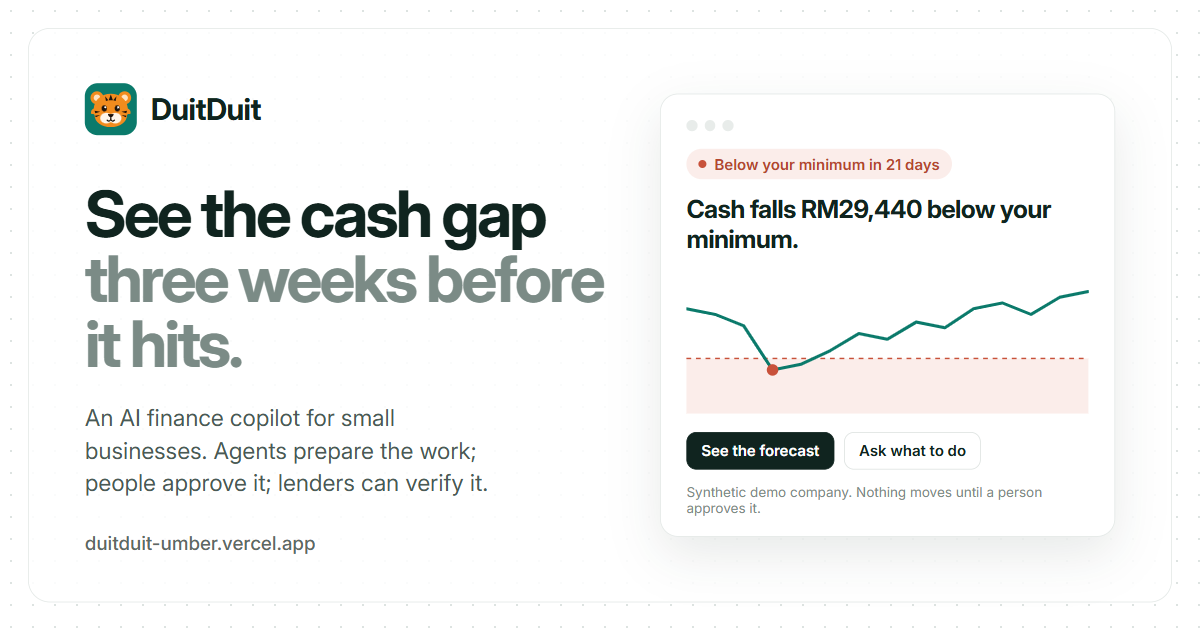
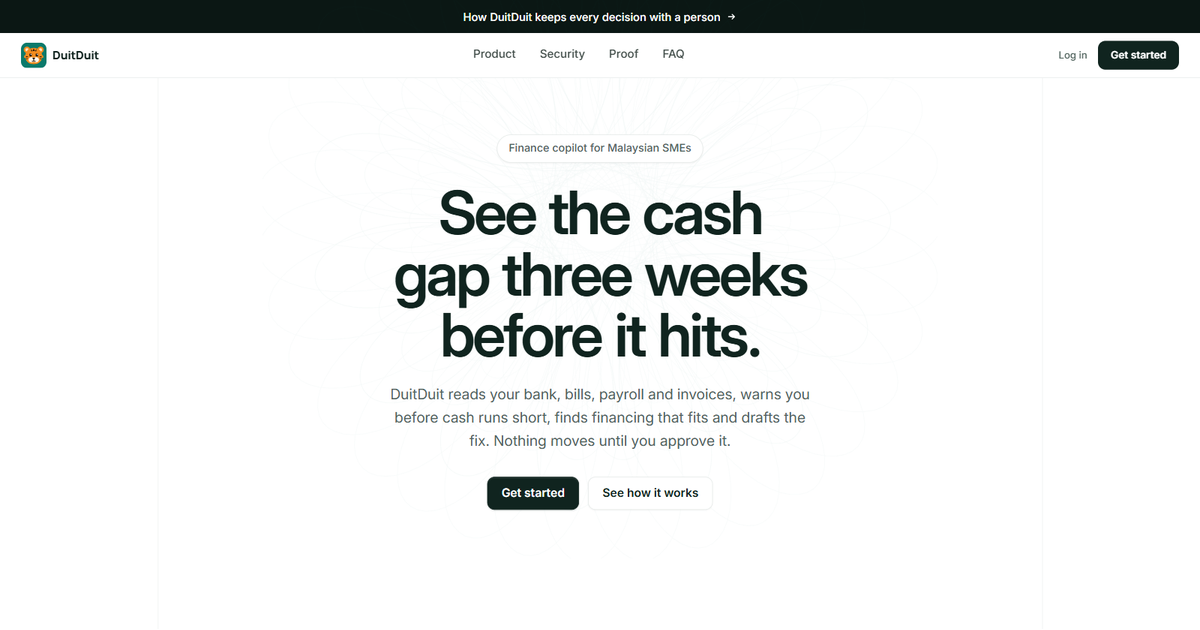
feat(web): the link preview is the landing page itself

diff --git a/frontend/index.html b/frontend/index.html
@@ -3,7 +3,7 @@
   <head>
     <meta charset="UTF-8" />
     <meta name="viewport" content="width=device-width, initial-scale=1.0" />
-    <meta name="description" content="An AI finance copilot for small businesses: a 90-day cash forecast that warns before cash runs short, financing that fits, and agents that prepare the work for people to approve. Lenders can verify the result." />
+    <meta name="description" content="DuitDuit reads your bank, bills, payroll and invoices, warns you before cash runs short, finds financing that fits and drafts the fix. Nothing moves until you approve it." />
     <link rel="icon" type="image/svg+xml" href="/favicon.svg" />
     <title>DuitDuit</title>
 
@@ -11,14 +11,14 @@
     <meta property="og:site_name" content="DuitDuit" />
     <meta property="og:url" content="https://duitduit-umber.vercel.app/" />
     <meta property="og:title" content="DuitDuit — See the cash gap three weeks before it hits." />
-    <meta property="og:description" content="An AI finance copilot for small businesses: a 90-day cash forecast that warns before cash runs short, financing that fits, and agents that prepare the work for people to approve. Lenders can verify the result." />
-    <meta property="og:image" content="https://duitduit-umber.vercel.app/og-image.png" />
+    <meta property="og:description" content="DuitDuit reads your bank, bills, payroll and invoices, warns you before cash runs short, finds financing that fits and drafts the fix. Nothing moves until you approve it." />
+    <meta property="og:image" content="https://duitduit-umber.vercel.app/og-image.png?v=2" />
     <meta property="og:image:width" content="1200" />
     <meta property="og:image:height" content="630" />
     <meta name="twitter:card" content="summary_large_image" />
     <meta name="twitter:title" content="DuitDuit — See the cash gap three weeks before it hits." />
-    <meta name="twitter:description" content="An AI finance copilot for small businesses: a 90-day cash forecast that warns before cash runs short, financing that fits, and agents that prepare the work for people to approve. Lenders can verify the result." />
-    <meta name="twitter:image" content="https://duitduit-umber.vercel.app/og-image.png" />
+    <meta name="twitter:description" content="DuitDuit reads your bank, bills, payroll and invoices, warns you before cash runs short, finds financing that fits and drafts the fix. Nothing moves until you approve it." />
+    <meta name="twitter:image" content="https://duitduit-umber.vercel.app/og-image.png?v=2" />
   </head>
   <body>
     <div id="root"></div>
